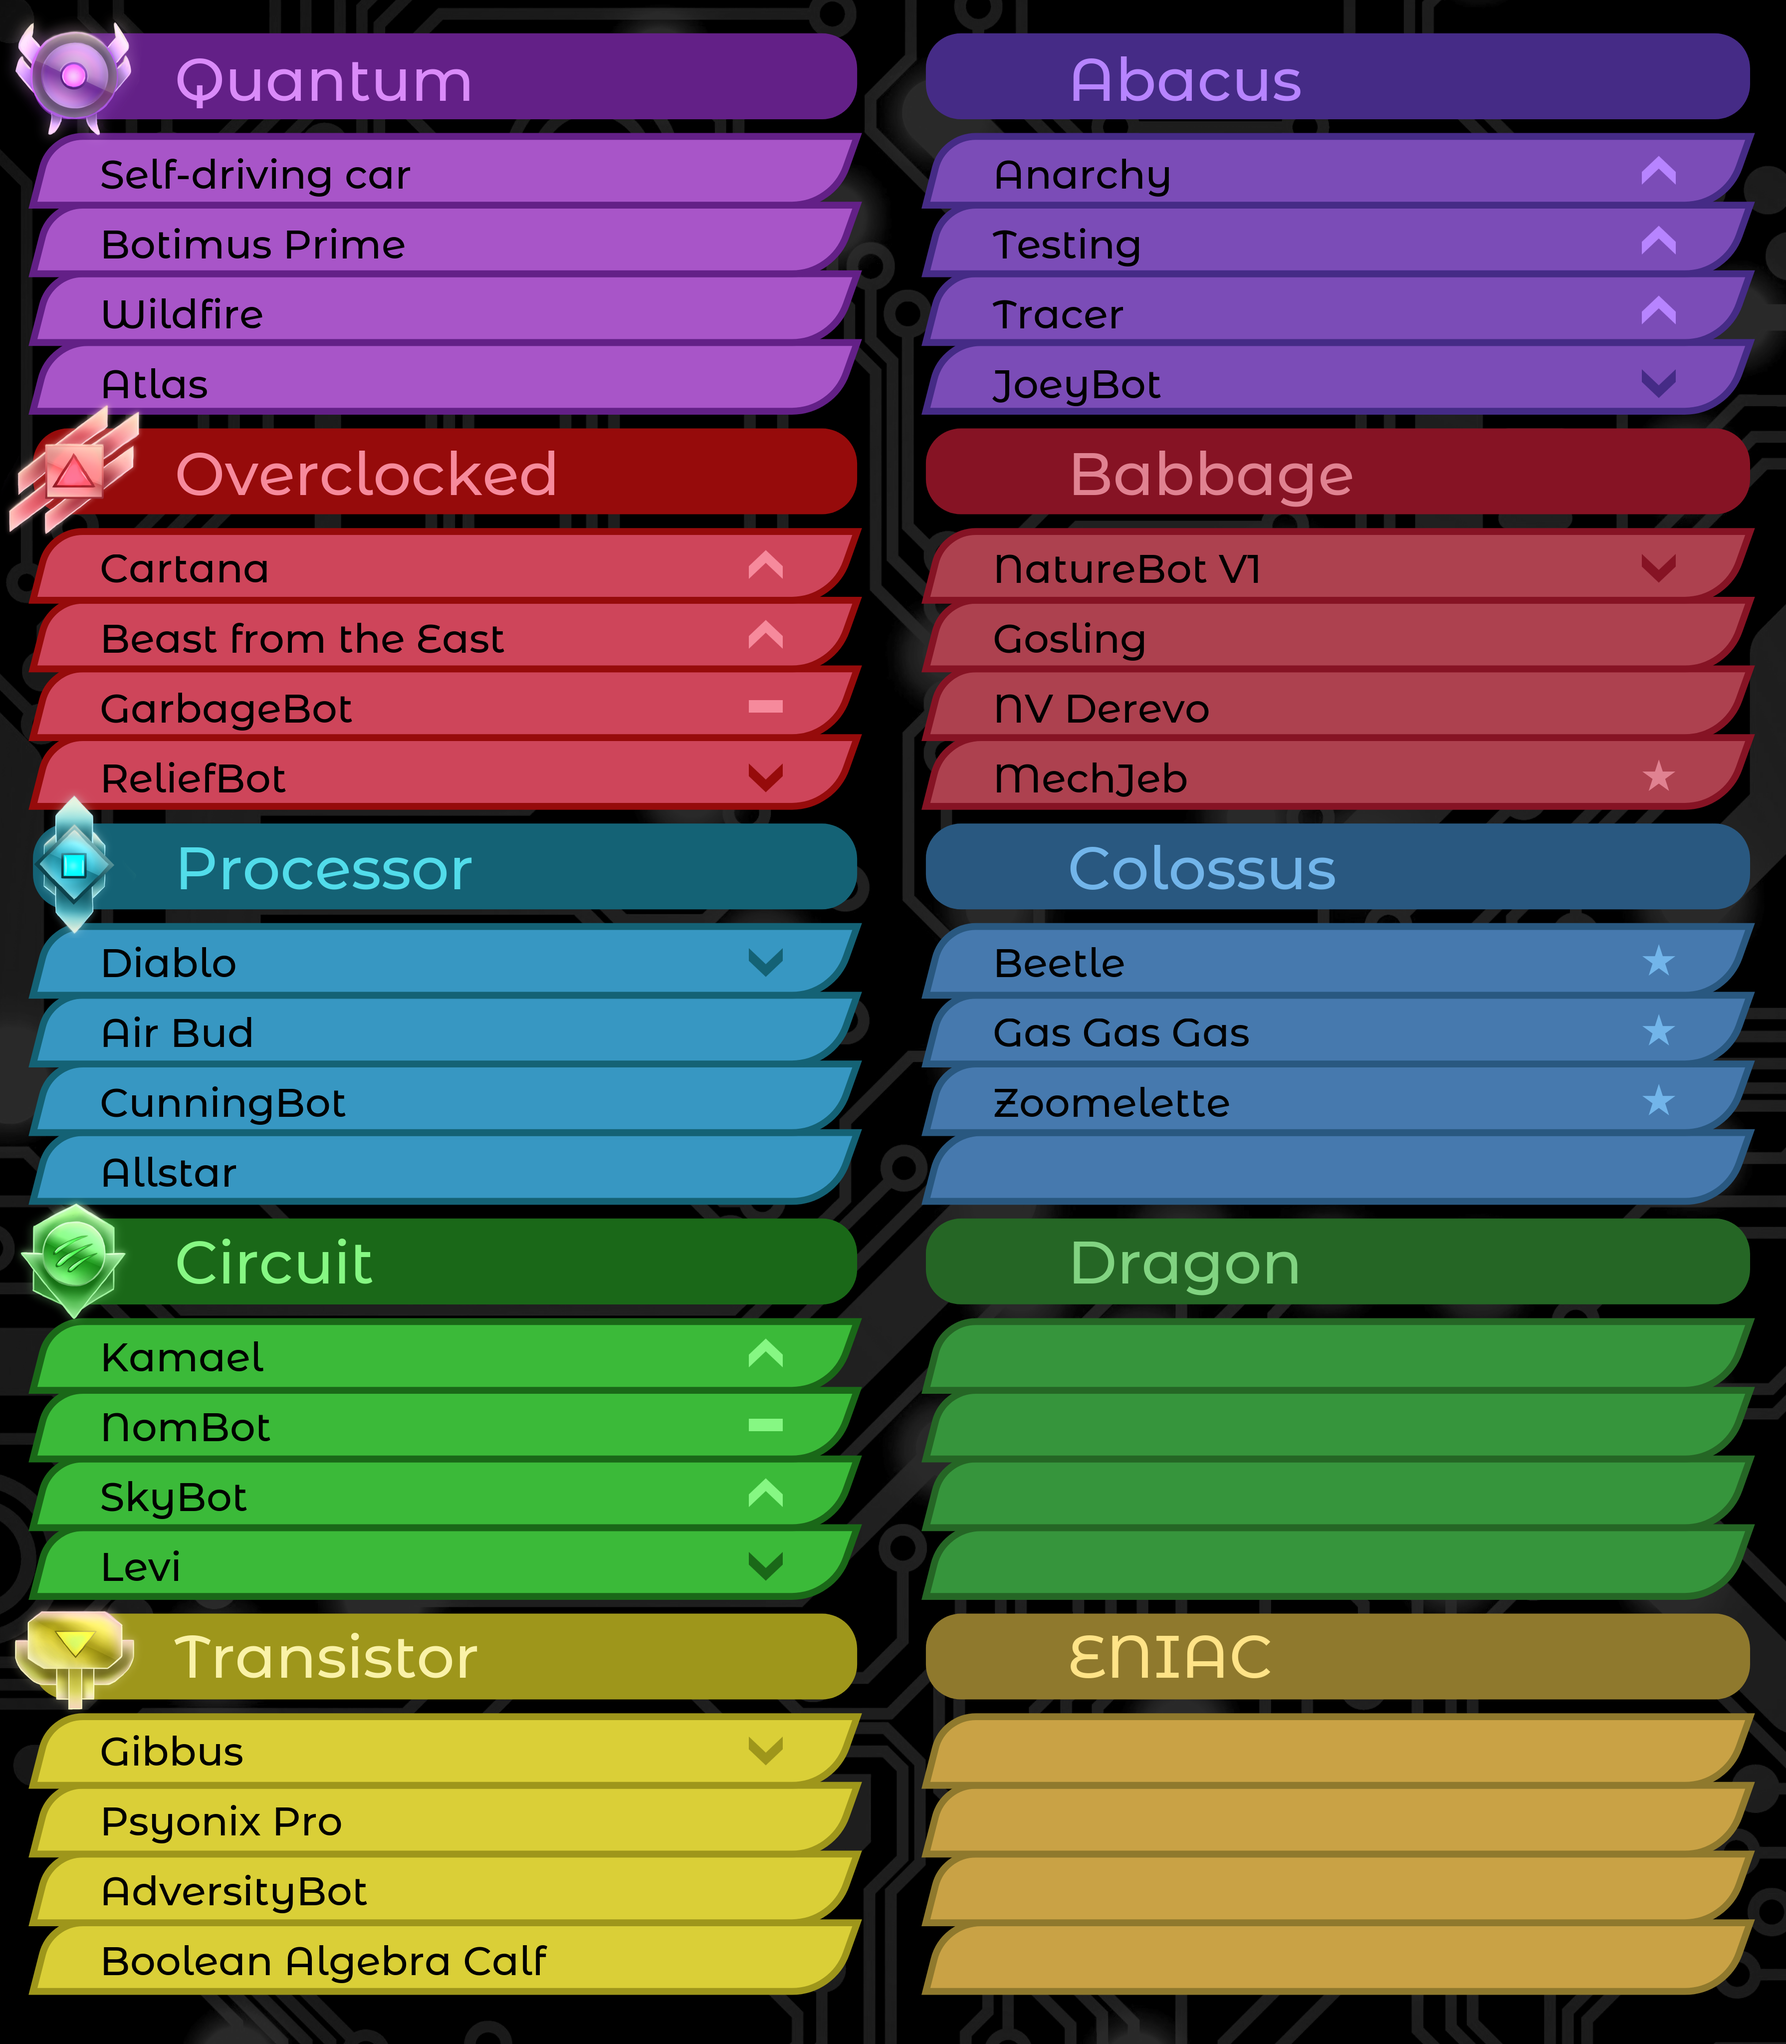
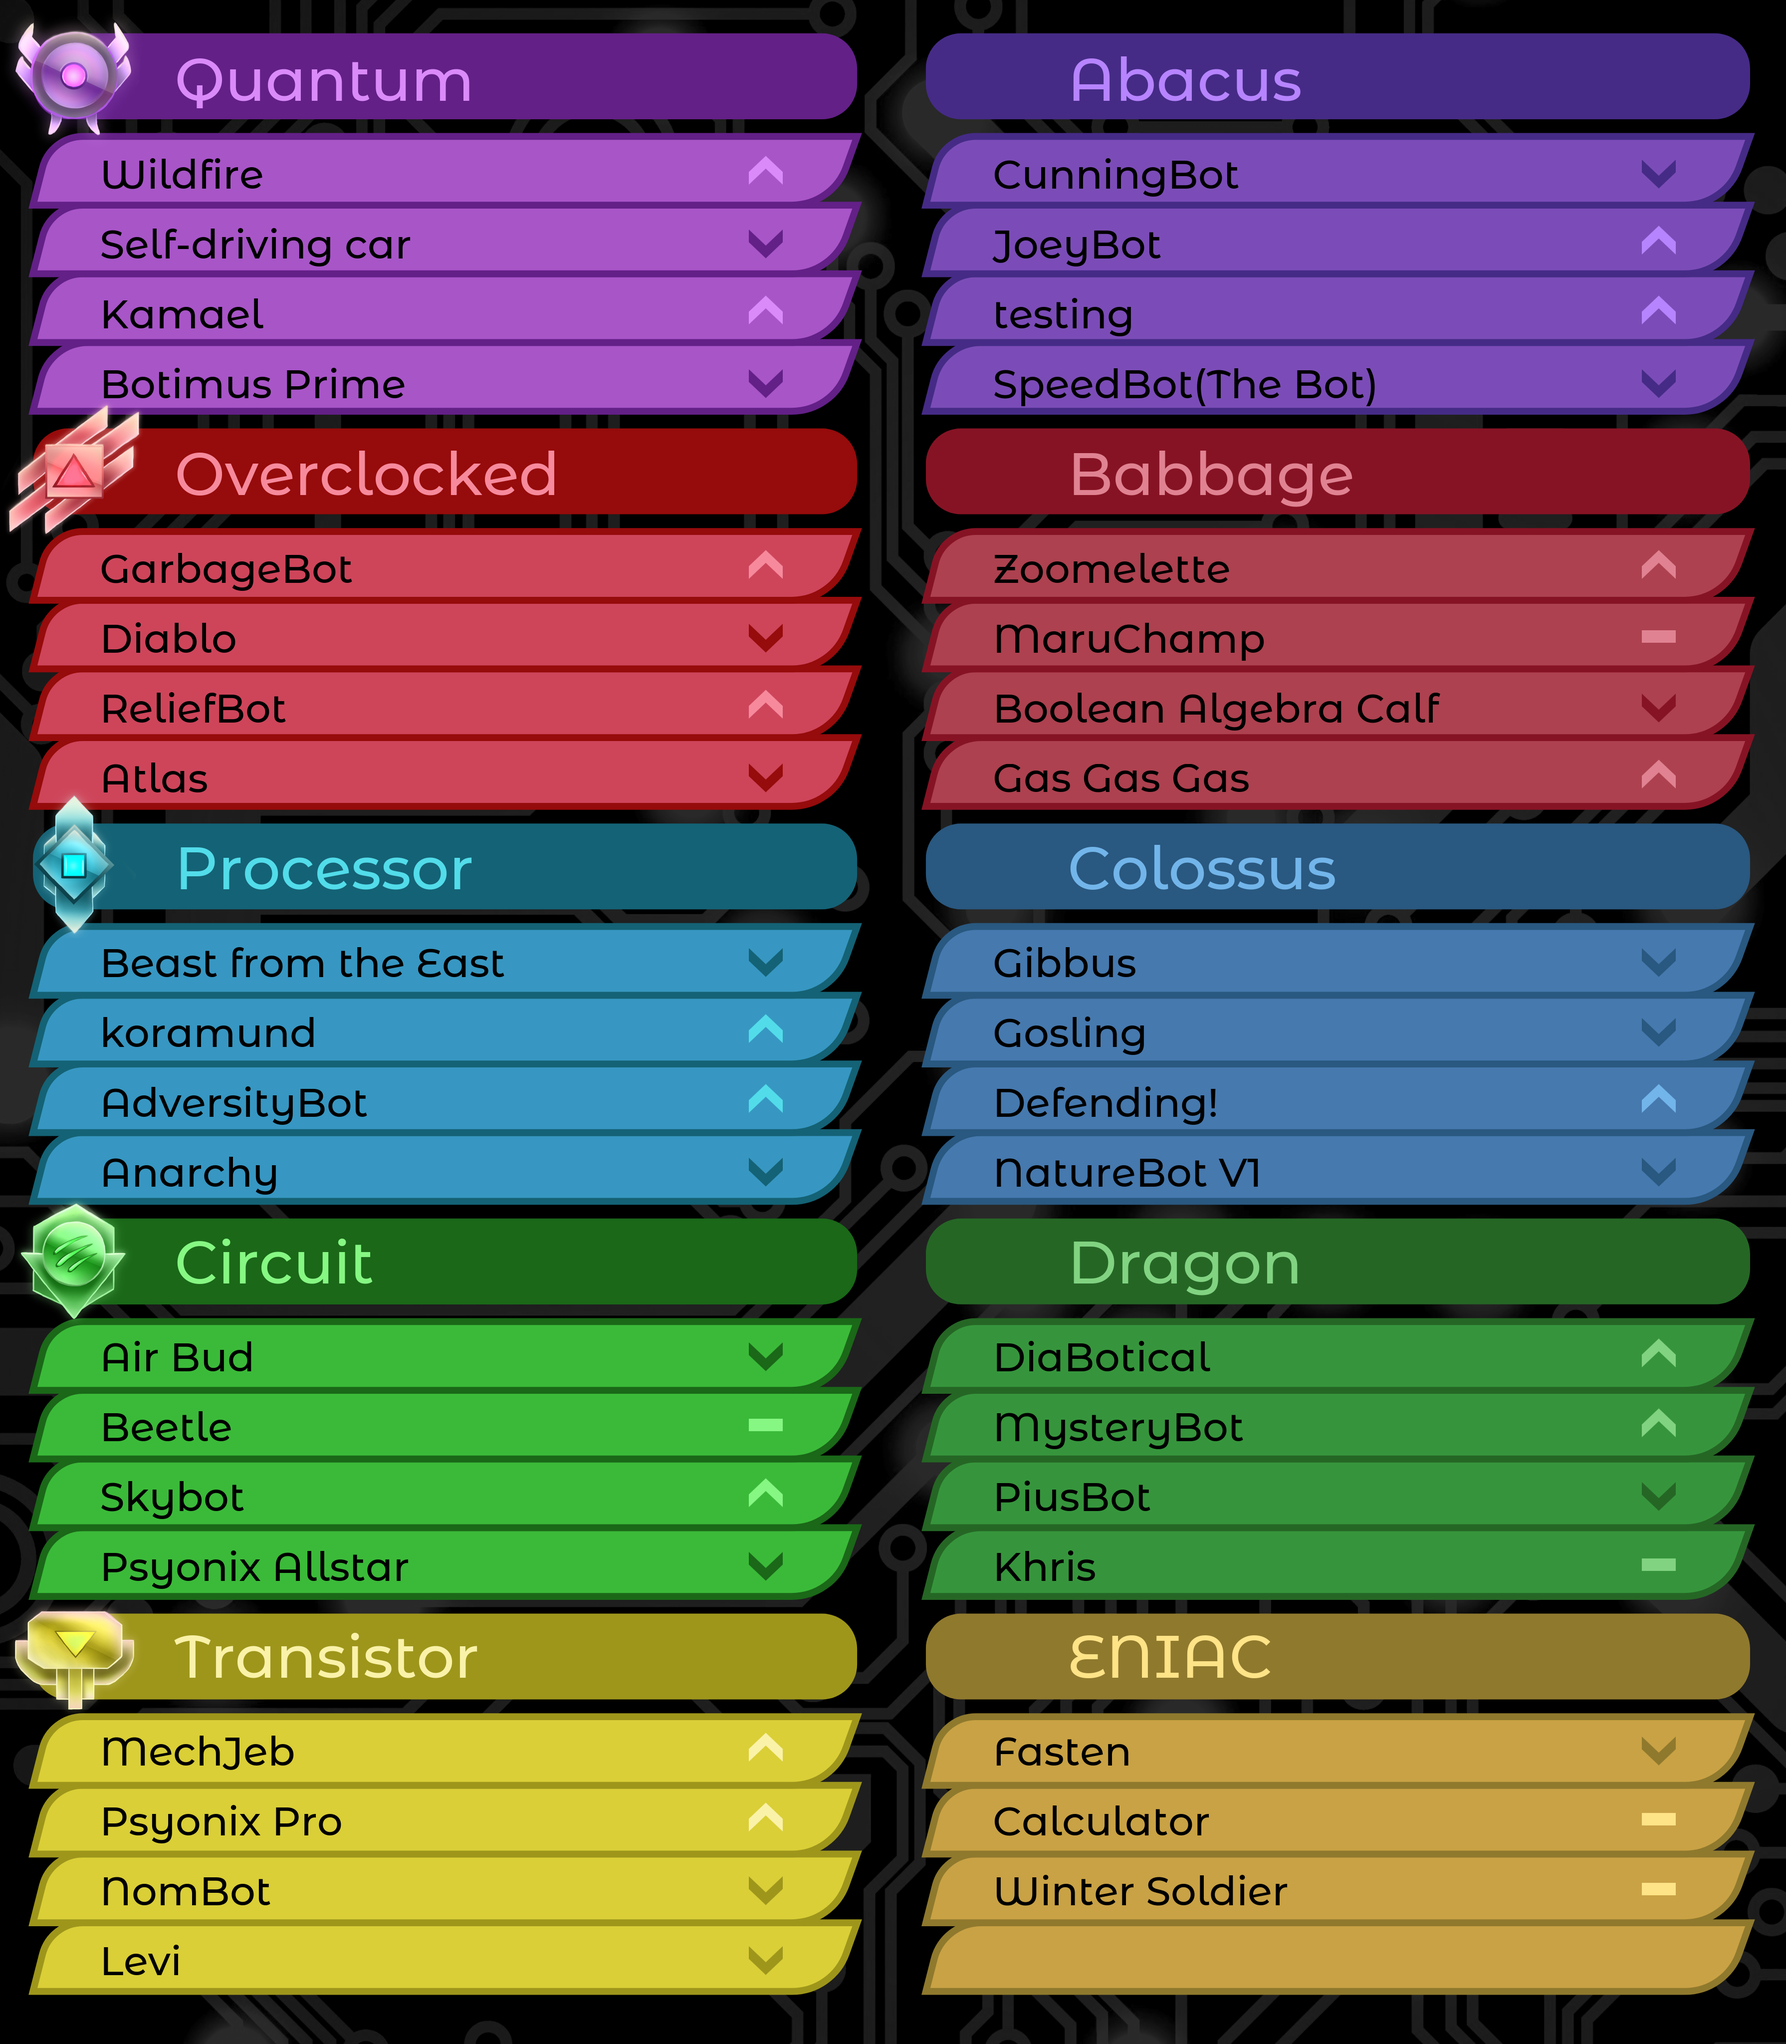
Update for season 1 week 1

diff --git a/leaderboard.py b/leaderboard.py
@@ -60,14 +60,16 @@ def generate_leaderboard(current_week, extra=False, background=True, make_clip=F
                 moved_down.append(bot)
 
     # Creates list for tracking who played last week.
-    played = []
+    played = previous # Since A and B are both playing in a single week no need to track this.
 
+    '''
     # Takes current week's number and determines if it's odd or even.
     odd = current_week % 2 # 0 if week is even, 1 if week is odd.
 
     # Adds bots who played last week to list.
     for i in range(5):
         played += previous[i*8 + 4*odd : i*8 + 4*odd + 5]
+    '''
 
     # ---------------------------------------------------------------
 

diff --git a/main.py b/main.py
@@ -6,7 +6,7 @@ import leaderboard
 # PARAMETERS:
 
 # Current week's number.
-current_week = 3
+current_week = 1
 
 # Extra 5 divisions?
 extra = False
